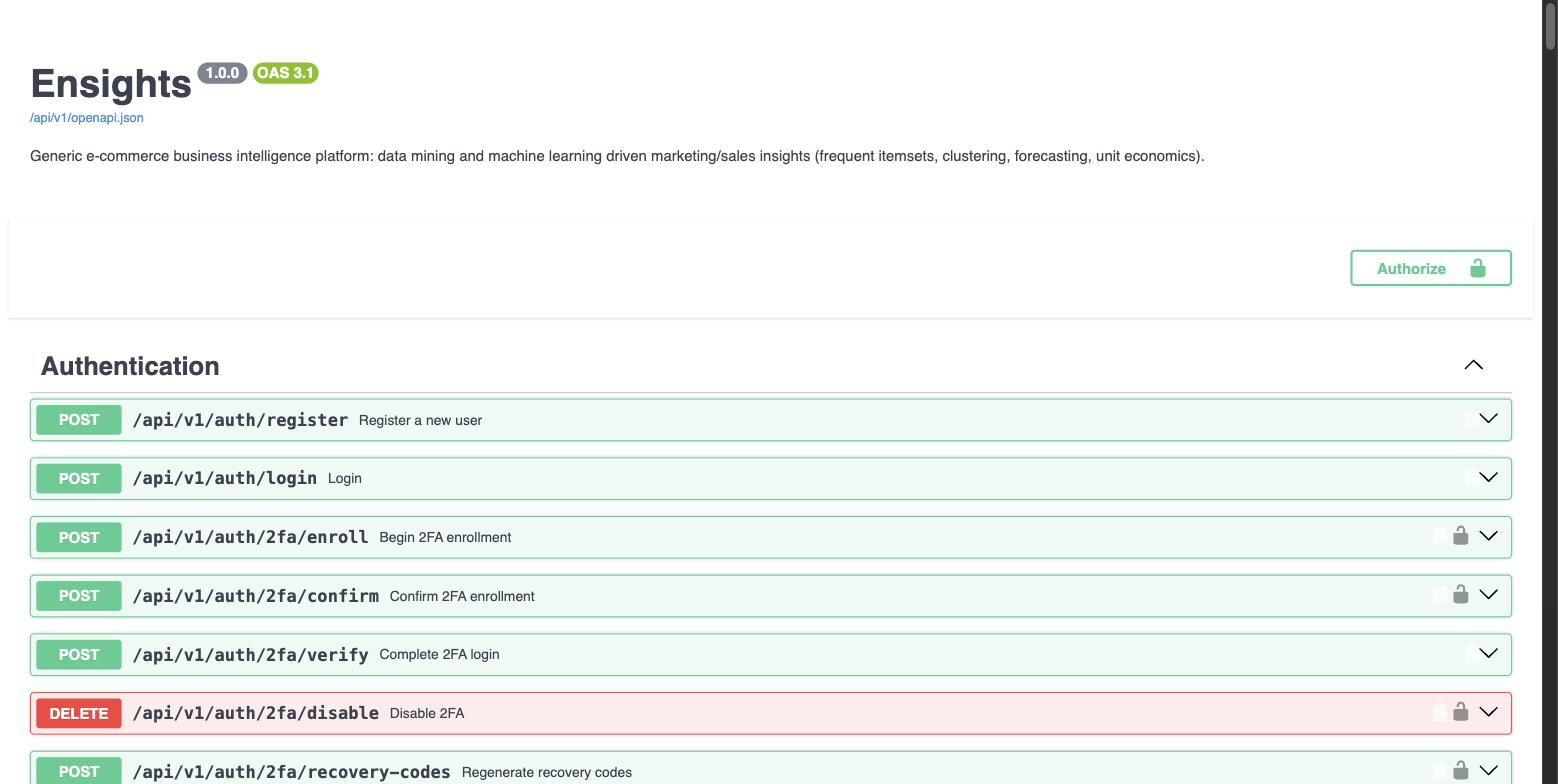
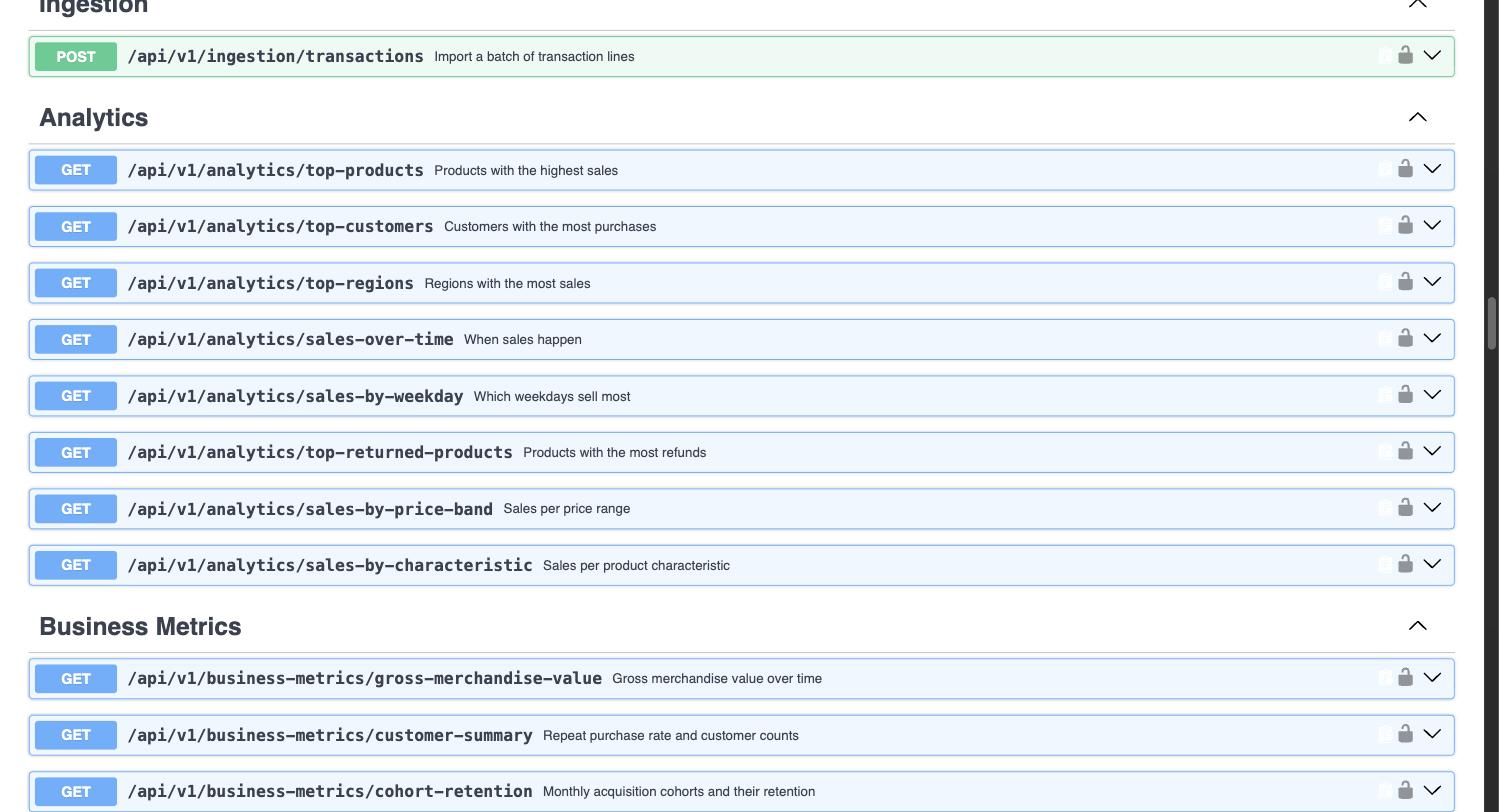
Show the analytics endpoints in the `Swagger` screenshot

Changed region(s): [[0.0, 0.0, 1.0, 1.0]]

diff --git a/README.md b/README.md
@@ -145,6 +145,12 @@ curl -H "Authorization: Bearer $TOKEN" \
 }
 ```
 
+The negative score here is the default run over every month. The dataset stops
+on 9 December 2011, so its final month holds nine days and reads as a collapse
+rather than a truncation. Chapter 7 excludes that period, and the same model
+then scores `+0.1421` against the baseline. The endpoint reports the honest
+number for whatever window it is given.
+
 **Nested customer segmentation.** Countries are clustered first, then each
 cluster is split again on purchasing behaviour. The silhouette score for every
 candidate number of clusters is returned, so the choice of `chosen_k` can be
@@ -201,7 +207,7 @@ would promote a rule whose right hand side is merely a popular product:
 
 ![Association rules mined from the Online Retail II dataset](documents/screenshots/metabase-association-rules.jpg)
 
-**Swagger UI** at `/try`, every endpoint with "Try it out":
+**Swagger UI** at `/try`. The analytics endpoints, with "Try it out" on each:
 
 ![Swagger UI listing the Ensights API](documents/screenshots/swagger-try.jpg)
 
